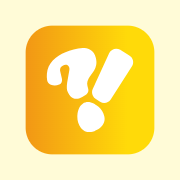
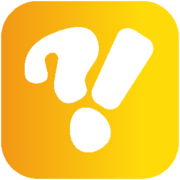
Nouvelle flamme de série, seuils minimums supprimés, icônes app en plein cadre
- Nouvelle flamme (dégradé orange, logo NOOVA en négatif) en en-tête de
  l'accueil, grisée quand la série du jour n'est pas encore validée,
  colorée dès qu'elle l'est.
- Suppression des 3 seuils minimums avant d'afficher un résultat, sur
  demande explicite ("ça fausse le jeu") :
  - Compatibilité entre amis : 5 questions en commun -> 1 (s'affiche dès
    qu'il y en a une, jamais une réponse individuelle n'est révélée,
    seulement un pourcentage).
  - « Combien ont répondu comme toi » après une question : 5 réponses -> 1.
  - Tableau par tranche d'âge côté commerçant : 3 réponses par tranche et
    10 réponses au total -> 1 (l'admin peut toujours relever ces seuils
    depuis son tableau de bord s'il le souhaite).
- Icônes app (apple-touch-icon, icon-192, icon-512) régénérées en plein
  cadre depuis le logo maître : icon-192 était mal recadrée (tronquée sur
  un côté), apple-touch-icon avait une grosse marge — le logo remplit
  maintenant toute la tuile sur iPhone/Android au lieu d'apparaître petit
  ou coupé.
- Tests mis à jour en conséquence (compat/reveal sans seuil, en-tête avec
  pièce/flamme en image plutôt qu'en SVG inline/texte) : 1164
  vérifications, 0 échec sur l'ensemble des 36 suites.

diff --git a/tests/eng2.js b/tests/eng2.js
@@ -30,9 +30,9 @@ const err=async fn=>{try{await fn();return null;}catch(e){return e.code||String(
     const sect={c1:'Boulangerie',c2:'Boulangerie',c3:'Boulangerie',c4:'Boulangerie',c5:'Restauration',c6:'Restauration',c7:'Restauration',c8:'Sport',c9:'Sport'};
     for(const [id,sector] of Object.entries(sect)) await mkCampaign(id,{sector});
     await mkCampaign('ct',{questions:[{q:'Libre ?',format:'text'}]});
-    for(const u of ['me','fA','fB','fC','fD','fE']) await mkUser(u,{name:'User '+u});
-    await db.doc('users/me').update({friendUids:['fA','fB','fC','fD','fE']});
-    for(const u of ['fA','fB','fC','fE']) await db.doc('users/'+u).update({friendUids:['me']});
+    for(const u of ['me','fA','fB','fC','fD','fE','fF']) await mkUser(u,{name:'User '+u});
+    await db.doc('users/me').update({friendUids:['fA','fB','fC','fD','fE','fF']});
+    for(const u of ['fA','fB','fC','fE','fF']) await db.doc('users/'+u).update({friendUids:['me']});   // fF : réciproque mais aucune question en commun (0)
     await db.doc('users/fC').update({shareAnswers:false});
     const ids=Object.keys(sect);
     for(const c of ids){await ans('me',c,'Café');await ans('fA',c,c==='c7'?'Thé':'Café');await ans('fC',c,'Café');await ans('fD',c,'Café');}
@@ -40,15 +40,16 @@ const err=async fn=>{try{await fn();return null;}catch(e){return e.code||String(
     for(const [c,a] of [['c1','Café'],['c2','Café'],['c3','Café'],['c4','Thé'],['c5','Thé'],['c6','Thé']])await ans('fE',c,a);
     await ans('me','ct','du texte');await ans('fA','ct','du texte');
     let r=await compat('me');
-    const A=byName(r,'fA'),B=byName(r,'fB'),C=byName(r,'fC'),D=byName(r,'fD'),Ef=byName(r,'fE');
+    const A=byName(r,'fA'),B=byName(r,'fB'),C=byName(r,'fC'),D=byName(r,'fD'),Ef=byName(r,'fE'),F=byName(r,'fF');
     check('Compat : ami avec 9 questions en commun (8 identiques) = 89 %',A&&A.state==='ok'&&A.pct===89&&A.common===9&&A.agree===8,A);
     check('Compat : la question texte n\'est pas comptée (format non comparable)',A.common===9);
-    check('Compat : détail par catégorie (≥ 3 en commun) : Boulangerie 100 %, Restauration 67 % ; Sport (2) masqué',A.categories.map(c=>c.category+':'+c.pct).join()==='boulangerie:100,restauration:67',A.categories);
+    check('Compat : détail par catégorie (pas de seuil) : Boulangerie 100 %, Sport 100 %, Restauration 67 %',A.categories.map(c=>c.category+':'+c.pct).join()==='boulangerie:100,sport:100,restauration:67',A.categories);
     check('Compat : 6 en commun, 3 identiques = 50 %',Ef.state==='ok'&&Ef.pct===50&&Ef.common===6,Ef);
-    check('Compat : sous le seuil (3 en commun) = « encore 2 », aucun pourcentage',B.state==='need'&&B.needed===2&&B.pct===undefined&&B.common===3,B);
+    check('Compat : pas de seuil minimum, 3 en commun = 100 % déjà affiché',B.state==='ok'&&B.pct===100&&B.common===3&&B.agree===3,B);
     check('Compat : ami qui a coupé le partage = « private », aucun pourcentage',C.state==='private'&&C.pct===undefined&&C.common===undefined,C);
     check('Compat : amitié non réciproque exclue',!D);
-    check('Compat : tri par % décroissant, puis « encore N », puis privé',r.friends.map(f=>f.uid).join()==='fA,fE,fB,fC',r.friends.map(f=>f.uid));
+    check('Compat : 0 question en commun = « encore 1 » (le seul cas sous le seuil)',F&&F.state==='need'&&F.needed===1&&F.pct===undefined&&F.common===0,F);
+    check('Compat : tri par % décroissant, puis « encore N », puis privé',r.friends.map(f=>f.uid).join()==='fB,fA,fE,fF,fC',r.friends.map(f=>f.uid));
     check('Compat : aucune réponse individuelle dans la réponse serveur',!/Café|Thé|Chocolat/.test(JSON.stringify(r)),JSON.stringify(r).slice(0,200));
     check('Compat : cache de paire enregistré',(await db.doc('compatCache/fA_me').get()).exists);
     // cache : un changement de réponse n'apparaît pas avant expiration
@@ -95,28 +96,28 @@ const err=async fn=>{try{await fn();return null;}catch(e){return e.code||String(
     await wf(p,()=>document.querySelectorAll('#friends-list .cp-pill.ok').length>=1&&document.querySelectorAll('#friends-list .cp-row').length>=4,null,20000);
     const rows=await p.evaluate(()=>[...document.querySelectorAll('#friends-list .cp-row')].map(r=>({n:r.querySelector('.cp-name').textContent,p:r.querySelector('.cp-pill').textContent.trim(),t:r.querySelector('.cp-pill').title,s:r.querySelector('.cp-sub').textContent})));
     await shot('compat_list');
-    check('Liste d\'amis unique : triée par compatibilité (78 → 50 → encore N → privé → en attente)',rows.map(r=>r.n).join()==='User fA,User fE,User fB,User fC,User fD',rows);
-    check('Liste : pastille de compatibilité (78 %, 50 %)',rows[0].p==='78 %'&&rows[1].p==='50 %',rows.slice(0,2));
-    check('Liste : « encore 2 » sous le seuil (détail dans l\'infobulle)',rows[2].p==='encore 2'&&/Répondez à 2 questions de plus/.test(rows[2].t),rows[2]);
-    check('Liste : « privé » pour l\'ami qui ne partage pas',rows[3].p==='privé'&&/Ne partage pas/.test(rows[3].t),rows[3]);
+    check('Liste d\'amis unique : triée par compatibilité (100 → 78 → 50 → encore N → privé → en attente)',rows.map(r=>r.n).join()==='User fB,User fA,User fE,User fF,User fC,User fD',rows);
+    check('Liste : pastille de compatibilité (100 %, 78 %)',rows[0].p==='100 %'&&rows[1].p==='78 %',rows.slice(0,2));
+    check('Liste : « encore 1 » sous le seuil (détail dans l\'infobulle)',rows[3].p==='encore 1'&&/Répondez à 1 question de plus/.test(rows[3].t),rows[3]);
+    check('Liste : « privé » pour l\'ami qui ne partage pas',rows[4].p==='privé'&&/Ne partage pas/.test(rows[4].t),rows[4]);
     check('Chaque ligne affiche ses xp et sa série',rows.every(r=>/xp/.test(r.s)&&/ j/.test(r.s)),rows.map(r=>r.s));
     check('Liste : l\'ami non réciproque apparaît « en attente » (jamais comparé)',rows.some(r=>r.n==='User fD'&&r.p==='en attente'),rows.filter(r=>r.n==='User fD'));
     // profil d'ami
-    await p.evaluate(()=>document.querySelector('#friends-list .cp-row').click());
+    await p.evaluate(()=>document.querySelector('#friends-list .cp-row[data-uid="fA"]').click());
     await wf(p,()=>document.getElementById('fprofile').classList.contains('active')&&document.querySelector('#fp-compat .fpr-big'),null,15000);
     const prof=await p.evaluate(()=>({name:document.querySelector('.fpr-name').textContent,big:document.querySelector('.fpr-big').textContent,lbl:document.querySelector('.fpr-lbl').textContent,cats:[...document.querySelectorAll('.fpr-cat')].map(c=>c.textContent.replace(/\s+/g,' ').trim()),nav:document.getElementById('bnav').classList.contains('show')}));
     await shot('compat_profile');
     check('Profil d\'ami : nom, score, détail',prof.name==='User fA'&&prof.big==='78 %'&&/7 des 9/.test(prof.lbl),prof);
-    check('Profil d\'ami : catégories Boulangerie 75 % et Restauration 67 %',prof.cats.length===2&&/Boulangerie.*75 %/.test(prof.cats[0])&&/Restauration.*67 %/.test(prof.cats[1]),prof.cats);
+    check('Profil d\'ami : catégories Sport 100 %, Boulangerie 75 % et Restauration 67 % (pas de seuil)',prof.cats.length===3&&/Sport.*100 %/.test(prof.cats[0])&&/Boulangerie.*75 %/.test(prof.cats[1])&&/Restauration.*67 %/.test(prof.cats[2]),prof.cats);
     await p.evaluate(()=>document.querySelector('#fprofile .fpr-btn').click());
     await wf(p,()=>document.getElementById('chat').classList.contains('active'),null,10000);
     check('Profil d\'ami : « Envoyer un message » ouvre la conversation',(await p.$eval('#ch-name',e=>e.textContent))==='User fA');
     await p.evaluate(()=>leaveChat());
-    // profil d'un ami sous le seuil
-    await p.evaluate(()=>openFriendProfile(S.friends.find(f=>f.uid==='fB')));
+    // profil d'un ami sous le seuil (0 question en commun)
+    await p.evaluate(()=>openFriendProfile(S.friends.find(f=>f.uid==='fF')));
     await wf(p,()=>document.querySelector('#fp-compat .fpr-lbl'),null,10000);
     const need=await p.$eval('#fp-compat',e=>e.textContent);
-    check('Profil d\'ami sous le seuil : « Répondez à 2 questions de plus », pas de score',/Répondez à 2 questions de plus/.test(need)&&!/%/.test(need),need);
+    check('Profil d\'ami sous le seuil : « Répondez à 1 question de plus », pas de score',/Répondez à 1 question de plus/.test(need)&&!/%/.test(need),need);
     await p.evaluate(()=>goTo('social'));
     // règles : réponses d'un ami qui ne partage pas
     const acc=await p.evaluate(async()=>{const t=async fn=>{try{await fn();return 'allowed';}catch(e){return e.code;}};

diff --git a/tests/eng6.js b/tests/eng6.js
@@ -43,23 +43,23 @@ const callFn=async(name,data,token)=>{const r=await fetch('http://127.0.0.1:5001
     check('Réglages : refusés à un simple utilisateur (lecture et écriture)',(await callFn('getEngagementConfig',{},tokUser)).error==='PERMISSION_DENIED'&&(await callFn('setEngagementConfig',{values:{'REVEAL.MIN_ANSWERS':2}},tokUser)).error==='PERMISSION_DENIED');
     check('Réglages : refusés sans connexion',(await callFn('getEngagementConfig',{},null)).error==='PERMISSION_DENIED'||(await callFn('getEngagementConfig',{},null)).error==='UNAUTHENTICATED');
     let g=await callFn('getEngagementConfig',{},tokAdmin);
-    check('Réglages : l\'admin lit valeurs, défauts et bornes (reveal 5 par défaut)',g.values['REVEAL.MIN_ANSWERS']===5&&g.defaults['REVEAL.MIN_ANSWERS']===5&&g.bounds['REVEAL.MIN_ANSWERS'].min===2&&Object.keys(g.bounds).length===7&&!Object.keys(g.bounds).some(k=>/^PREDICTION|^COMMUNITY|^QUOTA/.test(k)),g);
+    check('Réglages : l\'admin lit valeurs, défauts et bornes (reveal : pas de seuil par défaut, 1)',g.values['REVEAL.MIN_ANSWERS']===1&&g.defaults['REVEAL.MIN_ANSWERS']===1&&g.bounds['REVEAL.MIN_ANSWERS'].min===1&&Object.keys(g.bounds).length===7&&!Object.keys(g.bounds).some(k=>/^PREDICTION|^COMMUNITY|^QUOTA/.test(k)),g);
     check('Réglages : le barème de points et l\'anti-fraude ne sont pas réglables',!Object.keys(g.bounds).some(k=>/^POINTS|^RESPONSE_TIME/.test(k)));
     let r=await E.revealCore('me',{campaignId:'c1',questionIdx:0});
-    check('Avant : 3 réponses < seuil 5 → pas de pourcentage',r.belowThreshold===true&&r.needed===2,r);
-    check('Valeur hors bornes refusée (1 < 2)',(await callFn('setEngagementConfig',{values:{'REVEAL.MIN_ANSWERS':1}},tokAdmin)).error==='INVALID_ARGUMENT');
+    check('Par défaut : pas de seuil, pourcentages visibles dès 3 réponses',!r.belowThreshold&&r.options.map(o=>o.pct).join()==='67,33,0',r);
+    check('Valeur hors bornes refusée (0 < 1)',(await callFn('setEngagementConfig',{values:{'REVEAL.MIN_ANSWERS':0}},tokAdmin)).error==='INVALID_ARGUMENT');
     check('Valeur non entière refusée pour un entier',(await callFn('setEngagementConfig',{values:{'REVEAL.MIN_ANSWERS':2.5}},tokAdmin)).error==='INVALID_ARGUMENT');
     check('Réglage inconnu refusé (POINTS.MAX_ANSWERS_PER_DAY)',(await callFn('setEngagementConfig',{values:{'POINTS.MAX_ANSWERS_PER_DAY':9}},tokAdmin)).error==='INVALID_ARGUMENT');
-    const s1=await callFn('setEngagementConfig',{values:{'REVEAL.MIN_ANSWERS':3,'COMPAT.MIN_COMMON':3}},tokAdmin);
-    check('Enregistrement : valeurs effectives mises à jour',s1.values['REVEAL.MIN_ANSWERS']===3&&s1.values['COMPAT.MIN_COMMON']===3,s1);
+    const s1=await callFn('setEngagementConfig',{values:{'REVEAL.MIN_ANSWERS':5,'COMPAT.MIN_COMMON':5}},tokAdmin);
+    check('Enregistrement : l\'admin peut quand même relever le seuil s\'il le souhaite',s1.values['REVEAL.MIN_ANSWERS']===5&&s1.values['COMPAT.MIN_COMMON']===5,s1);
     check('Le document est illisible côté client (règles)',await (async()=>{const b=await puppeteer.launch({executablePath:CHROME,headless:'new',args:['--no-sandbox']});const p=await b.newPage();await p.goto(APP,{waitUntil:'load'});await sleep(1200);const c=await p.evaluate(async()=>{await auth.signInWithEmailAndPassword('me@t.fr','secret123');try{await db.collection('appConfig').doc('engagement').get();return 'allowed';}catch(e){return e.code;}});await b.close();return c==='permission-denied';})());
     await sleep(800);
     r=await E.revealCore('me',{campaignId:'c1',questionIdx:0});
-    check('Après : seuil abaissé à 3 → les pourcentages s\'affichent (67 / 33)',!r.belowThreshold&&r.options.map(o=>o.pct).join()==='67,33,0',r.options);
+    check('Après relèvement à 5 : 3 réponses < 5 → pas de pourcentage',r.belowThreshold===true&&r.needed===2,r);
     const s2=await callFn('setEngagementConfig',{values:{'REVEAL.MIN_ANSWERS':null,'COMPAT.MIN_COMMON':null}},tokAdmin);
     await sleep(800);
     r=await E.revealCore('me',{campaignId:'c1',questionIdx:0});
-    check('Retour aux défauts (null) : seuil de 5 rétabli',s2.values['REVEAL.MIN_ANSWERS']===5&&r.belowThreshold===true);
+    check('Retour aux défauts (null) : pas de seuil rétabli (1)',s2.values['REVEAL.MIN_ANSWERS']===1&&!r.belowThreshold);
     // interface admin
     const b=await puppeteer.launch({executablePath:CHROME,headless:'new',args:['--no-sandbox']});
     const p=await b.newPage();PG=p;await p.setViewport({width:1200,height:900});const errs=[];p.on('pageerror',e=>errs.push(e.message));

diff --git a/tests/eng25.js b/tests/eng25.js
@@ -49,8 +49,8 @@ const login=async(p,email)=>{await p.goto(APP,{waitUntil:'load'});await wf(p,()=
   await p.evaluate(()=>{document.querySelectorAll('[id*=tour],.tour-ov').forEach(e=>e.remove());});
 
   await T('en-tête',async()=>{
-    const h=await p.evaluate(()=>{const b=[...document.querySelectorAll('#home .dh-hdr > *')];const r=b.map(e=>e.getBoundingClientRect());return {cls:b.map(e=>e.className),txt:b.map(e=>e.textContent.replace(/\s+/g,' ').trim()),left:r[0].left,mid:(r[1].left+r[1].right)/2,right:r[2].right,vw:innerWidth,streakOn:document.getElementById('hdr-streak').classList.contains('on'),label:document.getElementById('hdr-streak').getAttribute('aria-label'),greet:/Bonjour|Bon après-midi|Bonsoir/.test(document.getElementById('home').innerText),coin:document.getElementById('hdr-coin').textContent,flag:!!document.querySelector('#hdr-flame svg')};});
-    check('En-tête : NOOVS à gauche (« N » en pièce + 7), série au centre (flamme + 4), points à droite (120 PTS)',h.cls.map(c=>c.split(' ')[0]).join('|')==='dh-noov|dh-streak|dh-pts'&&h.txt[0]==='N7'&&h.txt[1]==='4'&&/^120\s*PTS$/.test(h.txt[2])&&h.flag&&h.left<40&&Math.abs(h.mid-h.vw/2)<40&&h.right>h.vw-40,h);
+    const h=await p.evaluate(()=>{const b=[...document.querySelectorAll('#home .dh-hdr > *')];const r=b.map(e=>e.getBoundingClientRect());return {cls:b.map(e=>e.className),txt:b.map(e=>e.textContent.replace(/\s+/g,' ').trim()),left:r[0].left,mid:(r[1].left+r[1].right)/2,right:r[2].right,vw:innerWidth,streakOn:document.getElementById('hdr-streak').classList.contains('on'),label:document.getElementById('hdr-streak').getAttribute('aria-label'),greet:/Bonjour|Bon après-midi|Bonsoir/.test(document.getElementById('home').innerText),coin:!!document.querySelector('#hdr-coin img'),flag:!!document.querySelector('#hdr-flame img')};});
+    check('En-tête : NOOVS à gauche (pièce + 7), série au centre (flamme + 4), points à droite (120 PTS)',h.cls.map(c=>c.split(' ')[0]).join('|')==='dh-noov|dh-streak|dh-pts'&&h.coin&&h.txt[0]==='7'&&h.txt[1]==='4'&&/^120\s*PTS$/.test(h.txt[2])&&h.flag&&h.left<40&&Math.abs(h.mid-h.vw/2)<40&&h.right>h.vw-40,h);
     check('Plus de « Bonjour » ni de prénom sur l\'accueil ; plus de carte de série dans la page',!h.greet&&!(await p.evaluate(()=>!!document.querySelector('.dstreak-card,#home-name,#home-av'))));
     check('Flamme allumée quand la journée est validée (3 réponses), avec un libellé lisible pour les lecteurs d\'écran',h.streakOn&&/Série de 4 jours/.test(h.label)&&/validée/.test(h.label),h.label);
     await p.evaluate(()=>{S._streakDate='2020-01-01';renderHeaderStats();});

diff --git a/tests/eng1.js b/tests/eng1.js
@@ -32,11 +32,11 @@ const err=async fn=>{try{await fn();return null;}catch(e){return e.code||String(
     check('Reveal : refusé tant qu\'on n\'a pas répondu',await err(()=>reveal('me','c1'))==='permission-denied');
     await ans('me','c1','Café');
     let r=await reveal('me','c1');
-    check('Reveal : sous le seuil (1 réponse) : pas de pourcentage, « encore N »',r.available&&r.belowThreshold===true&&r.needed===CFG.REVEAL.MIN_ANSWERS-1&&r.options.every(o=>o.pct===undefined),r);
+    check('Reveal : pas de seuil minimum, pourcentage dès la 1re réponse',r.available&&!r.belowThreshold&&r.n===1&&r.options[0].pct===100,r);
     for(const [u,a] of [['a','Café'],['b','Café'],['c','Café']]) await ans(u,'c1',a);
     await db.doc('campaignStats/c1').delete();                       // réponses insérées à la main : on force le recomptage
     r=await reveal('me','c1');
-    check('Reveal : 4 réponses = encore sous le seuil de 5 (« encore 1 »)',r.belowThreshold===true&&r.needed===1&&r.n===4,r);
+    check('Reveal : 4 réponses, toujours pas de seuil, pourcentages exacts',!r.belowThreshold&&r.n===4,r);
     for(const [u,a] of [['d','Thé'],['e','Thé'],['f','Chocolat'],['g','Café']]) await ans(u,'c1',a);
     await db.doc('campaignStats/c1').delete();
     r=await reveal('me','c1');
@@ -77,7 +77,7 @@ const err=async fn=>{try{await fn();return null;}catch(e){return e.code||String(
     check('Reveal : les réponses suspectes ou flaggées sont comptées (rien n\'est exclu pour l\'instant)',r.n===6,r.n);
     check('Reveal : campagne inconnue = refusé (pas de réponse à cette question)',await err(()=>E.revealCore('me',{campaignId:'zzz',questionIdx:0}))==='permission-denied');
     check('Reveal : entrée invalide refusée',await err(()=>E.revealCore('me',{}))==='invalid-argument');
-    check('Config : le seuil vient de engagementConfig.js',CFG.REVEAL.MIN_ANSWERS===5&&CFG.RESPONSE_TIME.SUSPECT_MS===4000);
+    check('Config : le seuil vient de engagementConfig.js',CFG.REVEAL.MIN_ANSWERS===1&&CFG.RESPONSE_TIME.SUSPECT_MS===4000);
   });
 
   // ═════════ INTERFACE + submitAnswer réel ═════════

diff --git a/noova_dashboard.html b/noova_dashboard.html
@@ -1639,10 +1639,10 @@ function rsQuestionHTML(q, idx, r, total){
     body = rsBars(rows, { pct: true, total: tot });
     // Réponse par tranche d'âge (abonnés seulement : les réponses de découverte n'ont pas d'âge)
     const aged = qa.filter(a => a.respondentAge);
-    if(aged.length >= 10){
+    if(aged.length >= 1){
       const groups = {}; aged.forEach(a => { const k = resAgeBucket(a.respondentAge); (groups[k] = groups[k] || []).push(a); });
-      const cols = RES_AGES.filter(k => (groups[k] || []).length >= 3);
-      if(cols.length >= 2) body += `<div class="rs-sub">Par tranche d'âge <span>(abonnés, tranches d'au moins 3 réponses)</span></div><div class="rs-tblwrap" tabindex="0" role="region" aria-label="Réponses par tranche d'âge"><table class="rs-tbl"><thead><tr><th scope="col">Réponse</th>${cols.map(k => `<th scope="col">${k}</th>`).join('')}</tr></thead><tbody>${rows.map(rw => `<tr><th scope="row">${esc(rw.label)}</th>${cols.map(k => { const g = groups[k]; return `<td>${rsPct(g.filter(a => a.answer === rw.label).length, g.length)} %</td>`; }).join('')}</tr>`).join('')}</tbody></table></div>`;
+      const cols = RES_AGES.filter(k => (groups[k] || []).length >= 1);
+      if(cols.length >= 2) body += `<div class="rs-sub">Par tranche d'âge <span>(abonnés)</span></div><div class="rs-tblwrap" tabindex="0" role="region" aria-label="Réponses par tranche d'âge"><table class="rs-tbl"><thead><tr><th scope="col">Réponse</th>${cols.map(k => `<th scope="col">${k}</th>`).join('')}</tr></thead><tbody>${rows.map(rw => `<tr><th scope="row">${esc(rw.label)}</th>${cols.map(k => { const g = groups[k]; return `<td>${rsPct(g.filter(a => a.answer === rw.label).length, g.length)} %</td>`; }).join('')}</tr>`).join('')}</tbody></table></div>`;
     }
   } else if(q.format === 'scale'){
     const vals = qa.map(a => Number(a.answer)).filter(v => v >= 1 && v <= 10);

diff --git a/app_DEF.html b/app_DEF.html
@@ -901,6 +901,8 @@ html,body{height:100%;overflow:hidden;background:#1A1820;font-family:var(--fb);-
 .dh-streak.on .dh-flame{color:#E07D0A}
 .dh-flame .fo{fill:currentColor}.dh-flame .fi{fill:#FFF3D1}
 .dh-streak.on .dh-flame .fi{fill:#FFC300}
+.dh-flame img{filter:grayscale(1) opacity(.4);transition:filter .2s}
+.dh-streak.on .dh-flame img{filter:none}
 .dh-pts-n{font-family:var(--fd);font-weight:800;font-size:15px}
 .dh-pts-l{font-size:10px;color:rgba(255,255,255,.55);font-weight:600}
 
@@ -2110,7 +2112,7 @@ async function doBrands(){
 // Images et icônes personnalisées : renseigne l'URL d'un fichier pour remplacer l'icône par défaut (rien d'autre à changer).
 // Flamme pleine de l'en-tête (l'icône « fire » du jeu d'icônes est un simple contour).
 const FLAME_SVG='<svg aria-hidden="true" focusable="false" viewBox="0 0 24 24"><path class="fo" d="M12.6 1.8c.5 3.4-1.3 5.2-2.9 7.1C8.2 10.6 6.8 12.3 6.8 14.9a5.3 5.3 0 0 0 5.2 5.4 5.3 5.3 0 0 0 5.2-5.5c0-2.4-1.1-4.1-2.3-5.5-.4 1.5-1.3 2.3-2.4 2.6.7-3.2 0-6.3.1-10.1z"/><path class="fi" d="M12 20.3a2.7 2.7 0 0 1-2.7-2.7c0-1.7 1.4-2.6 2.7-4.2 1.3 1.6 2.7 2.5 2.7 4.2a2.7 2.7 0 0 1-2.7 2.7z"/></svg>';
-const NV_ASSETS={coin:'/noov-coin.png',flame:'',points:'',noovs:'',xp:'',rewards:''};
+const NV_ASSETS={coin:'/noov-coin.png',flame:'/noov-flame.svg',points:'',noovs:'',xp:'',rewards:''};
 function nvImg(key,fallback,alt){const u=NV_ASSETS[key];return u?'<img src="'+esc(u)+'" alt="'+esc(alt||'')+'">':fallback;}
 // Petit effet « pièce gagnée » : elle s'envole de l'écran de récompense jusqu'au score NOOVS de l'accueil
 // (#hdr-coin), même si l'accueil n'est pas l'écran affiché — .screen reste en position:absolute;inset:0

diff --git a/functions/engagementConfig.js b/functions/engagementConfig.js
@@ -47,7 +47,7 @@ module.exports = {
   // ─── Reveal (comment les autres ont répondu) ───
   REVEAL: {
     FORMATS: ["mcq"],            // formats de question concernés (choix multiple uniquement)
-    MIN_ANSWERS: 5,              // seuil avant d'afficher un pourcentage
+    MIN_ANSWERS: 1,              // pas de seuil : dès qu'il y a une réponse, le pourcentage s'affiche
     MAX_FRIENDS: 30,             // amis regardés au maximum
     COUNT_SUSPECT: true,         // les réponses « suspectes » comptent dans les pourcentages
     COUNT_FLAGGED: true,         // les réponses « flaggées » (< MIN_FOR_GAIN_MS) aussi, pour l'instant
@@ -65,8 +65,8 @@ module.exports = {
 
   // ─── Compatibilité entre amis ─── (étape 2)
   COMPAT: {
-    MIN_COMMON: 5,               // questions en commun avant d'afficher un score
-    MIN_COMMON_PER_CATEGORY: 3,  // idem pour le détail d'une catégorie de commerce
+    MIN_COMMON: 1,               // pas de seuil : dès qu'une question est en commun, le score s'affiche
+    MIN_COMMON_PER_CATEGORY: 1,  // idem pour le détail d'une catégorie de commerce
     CACHE_MINUTES: 10,
     FORMATS: ["mcq"],            // formats comparables (un accord n'a de sens que sur un choix fermé)
     MAX_ANSWERS_SCAN: 500,       // réponses les plus récentes lues par personne

diff --git a/functions/configStore.js b/functions/configStore.js
@@ -14,8 +14,8 @@ const { ADMIN_EMAILS } = require("./lib");
 const db = () => getFirestore();
 
 const TUNABLE = {
-  "REVEAL.MIN_ANSWERS":               { min: 2, max: 50, int: true, label: "Reveal : réponses minimum avant d'afficher les pourcentages" },
-  "COMPAT.MIN_COMMON":                { min: 2, max: 30, int: true, label: "Compatibilité : questions en commun minimum" },
+  "REVEAL.MIN_ANSWERS":               { min: 1, max: 50, int: true, label: "Reveal : réponses minimum avant d'afficher les pourcentages" },
+  "COMPAT.MIN_COMMON":                { min: 1, max: 30, int: true, label: "Compatibilité : questions en commun minimum" },
   "COMPAT.MIN_COMMON_PER_CATEGORY":   { min: 1, max: 20, int: true, label: "Compatibilité : questions en commun minimum par catégorie" },
   "NOOVS.DAILY_CAP":                  { min: 1, max: 500, int: true, label: "NOOVS : plafond par jour et par habitant" },
   "NOOVS.MIN_RESPONSE_MS":            { min: 0, max: 15000, int: true, label: "NOOVS : temps de réponse minimum en ms (0 = désactivé)" },
